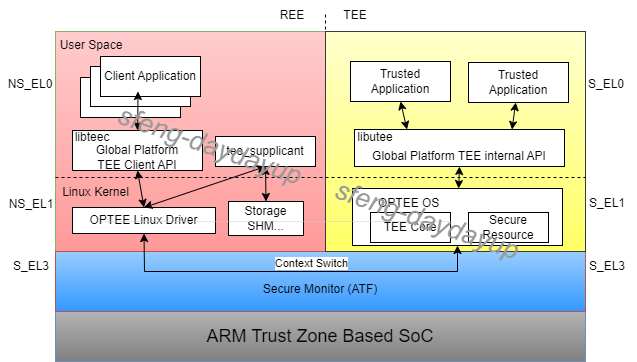
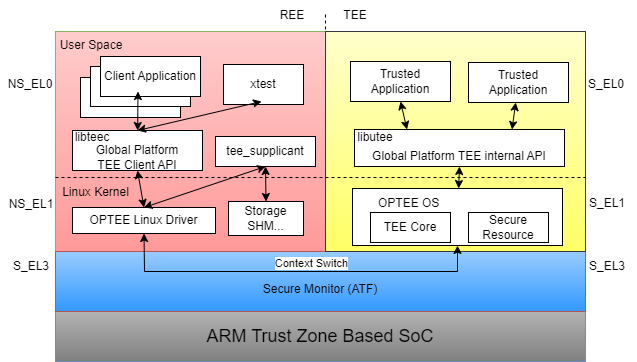
new blog

Changed region(s): [[0.179, 0.1519, 0.4772, 0.5166], [0.5071, 0.5166, 0.8352, 0.7293]]

diff --git a/_posts/2024-07-02-optee-overview.md b/_posts/2024-07-02-optee-overview.md
@@ -1,0 +1,32 @@
+---
+layout: post
+title: OPTEE Overview
+date: 2024-07-02 11:56 +0800
+categories: [Blogging, OPTEE]
+tags: [optee]
+lang: zh
+---
+
+&emsp;&emsp;前段时间刚好做了一个关于OPTEE的PPT，最近打算写一些关于OPTEE的文章，这篇先起个头。  
+&emsp;&emsp;关于OPTEE的介绍，官方文档在这里([**About OPTEE**](https://optee.readthedocs.io/en/latest/general/about.html))。OPTEE主要是基于ARM TrustZone Technology基础上打造出的一个Trused Execution Environment，文档中虽然提及它已经兼容其他有isolation technology的SoC，比如RISC-V，但本篇主要内容都是以ARM的SoC为基础。  
+![Desktop View](/assets/img/optee_common.png){: .normal }
+&emsp;&emsp;上图显示了OPTEE包含的若干组件以及它们在runtime所运行的Exceptin Level。  
+- OPTEE OS  
+  OPTEE OS是核心组件，它不直接参与具体业务实现，它为业务实现提供各种基础设施，比如memory的management，interrupt的处理，thread的创建和上下文切换，TA的loading/initialization/destory，Secure Storage的实现，etc.  
+- TA(Trusted Application)  
+  TA是具体业务的载体。它通过自身逻辑配合调用TEE OS提供的syscall来实现具体业务。  
+- TEE Libary  
+  Libary中最基础的是libutee，它实现了GPD的TEE Internal APIs(大部分最终syscall到OPTEE OS里)。Link到TA后，TA通过调用这些API来实现自己的逻辑。 其他的如libutils提供了一些标准c函数实现，libmbedtls实现了很多cryptography的software implementation。 
+  OPTEE还提供了动态加载libary的选项，有空可以实践对比下。  
+- OPTEE Linux Driver  
+  OPTEE Linux Driver则是作为REE端连接ATF和OPTEE OS的接口，所有的CA的请求都通过它转发给TEE端。
+- CA(Client Application)  
+  由于OPTEE OS没有scheduler，所以一个Secure Service总是由REE端的CA发起，而CA又由Linux OS调度。CA大多运行在User Space，但也可以在Kernel Space实现。  
+- TEEC Libary  
+  当CA运行在User Space的时候，TEEC提供了CA到OPTEE Linux Driver的接口。TEEC提供的接口同样要符合GPD的TEEC Client API的标准。  
+- tee_supplicant  
+  由于OPTEE运行在ARM CPU Secure State，一些本身由REE OS(Linux)管理的设备(比如storage)，OPTEE不能也没必要直接访问。这时候OPTEE就RPC callback回到REE通过tee_supplicant来实现操作。  
+- xtest  
+  xtest提供了TEE Sanity Test Suite。通过run xtest可以发现一些regression。当然developer也可以根据需求扩展更多的testcase。  
+
+&emsp;&emsp;除了OPTEE OS还有一些其他的TEE OS，如Google家的trusty，也有不少公司有自己私有的TEE OS，但总体来说OPTEE是开源里面全面能打的一个，文档齐全，社区维护者众多，CVS补丁也更新及时，紧跟ARM脚步，最早支持ARM最新架构等等，认可度高，特别是过各种Security相关的认证，及早使用OPTEE是件省时省力的事情。

diff --git a/_posts/2024-07-04-output-of-optee-build.md b/_posts/2024-07-04-output-of-optee-build.md
@@ -2,7 +2,7 @@
 layout: post
 title: Output of OPTEE Build
 author: sfeng
-date: 2024-07-02 11:56 +0800
+date: 2024-07-04 18:06 +0800
 categories: [Blogging, OPTEE]
 tags: [optee]
 lang: zh
